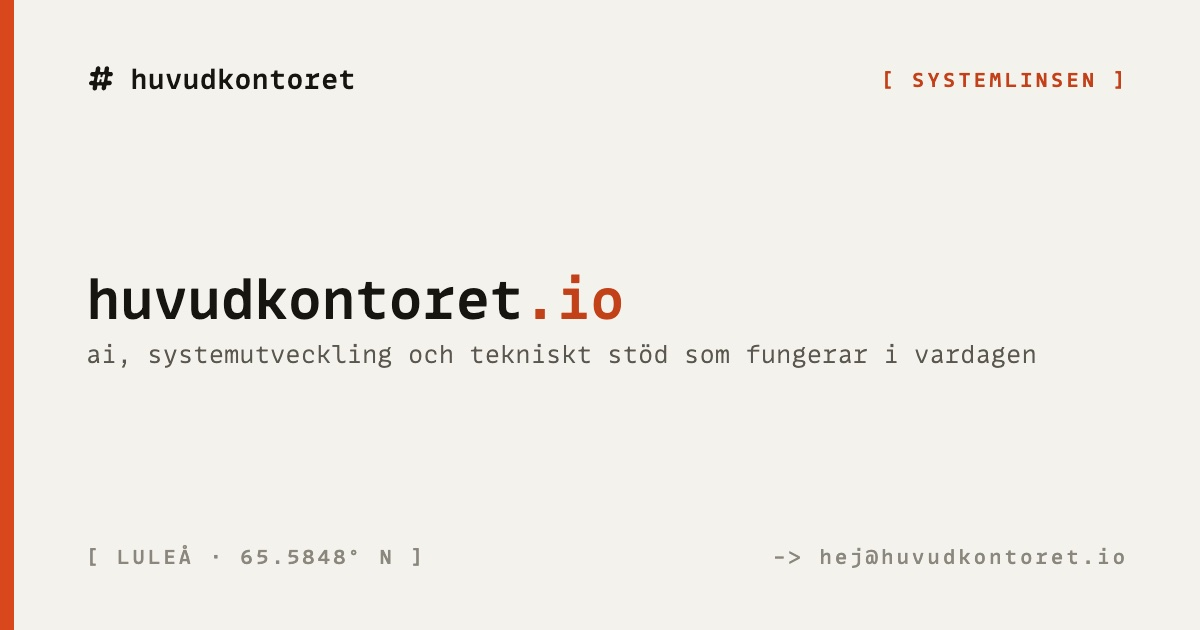
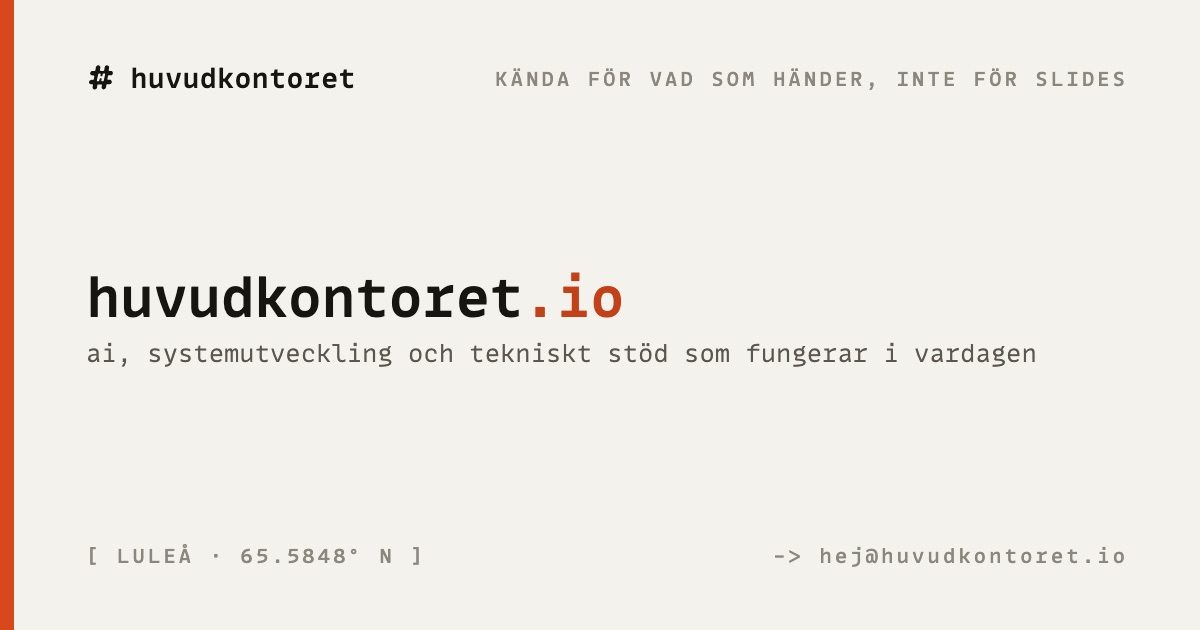
fix(io): take the lens name off the OG image, and the name in lower case in the title
The share image said "[ SYSTEMLINSEN ]" top right and the alt text said
"systemlinsen". With Systemet hidden in v1 the page never explains the
word, so on LinkedIn or in Slack it was jargon with no home — the same
problem the review found with "nod" (#28). The slot now carries the hero
meta's own right-hand line, "KÄNDA FÖR VAD SOM HÄNDER, INTE FÖR SLIDES",
in Grafit like the hero sets it; the lens colour stays on the address
where it belongs. `assets/og-io.jpg` is re-rendered from the template with
the recipe in its header. The alt text describes what the image says.

The tab title was "Huvudkontoret - AI, …". The name rule puts the company
name in lower case on every surface, and /profil already titles itself
"Profil · huvudkontoret", so the homepage is "huvudkontoret · AI,
systemutveckling och tekniskt stöd som fungerar i vardagen". og:title and
the Organization name in the JSON-LD follow, since search engines and
share cards show both as the name.

Left alone: "# Huvudkontoret" as the heading of index.md, llms.txt and
llms-full.txt, and the legal entity where it is meant to be capitalised.

Claude-Session: https://claude.ai/code/session_01Hob53QN7FiicNpoCMWLP9B

diff --git a/index.html b/index.html
@@ -4,7 +4,7 @@
         <meta charset="UTF-8" />
         <meta name="viewport" content="width=device-width, initial-scale=1.0" />
         <title>
-            Huvudkontoret - AI, systemutveckling och tekniskt stöd som fungerar
+            huvudkontoret · AI, systemutveckling och tekniskt stöd som fungerar
             i vardagen
         </title>
         <meta
@@ -12,12 +12,12 @@
             content="Huvudkontoret är ett techbolag i Luleå med fokus på AI, systemutveckling och teknisk rådgivning. Lokalt förankrat, globalt relevant, kända för vad som händer."
         />
         <meta name="theme-color" content="#F4F2EC" />
-        <meta property="og:title" content="Huvudkontoret" />
+        <meta property="og:title" content="huvudkontoret" />
         <meta property="og:description" content="Nästa steg. På riktigt. AI, systemutveckling och tekniskt stöd som fungerar i vardagen, inte bara ser bra ut på papper." />
         <meta property="og:image" content="https://huvudkontoret.io/assets/og-io.jpg" />
         <meta property="og:image:width" content="1200" />
         <meta property="og:image:height" content="630" />
-        <meta property="og:image:alt" content="huvudkontoret.io: systemlinsen" />
+        <meta property="og:image:alt" content="huvudkontoret.io: AI, systemutveckling och tekniskt stöd som fungerar i vardagen" />
         <meta property="og:url" content="https://huvudkontoret.io" />
         <meta property="og:type" content="website" />
         <meta property="og:locale" content="sv_SE" />
@@ -36,7 +36,7 @@
                 "@context": "https://schema.org",
                 "@type": "Organization",
                 "@id": "https://huvudkontoret.io/#organization",
-                "name": "Huvudkontoret",
+                "name": "huvudkontoret",
                 "url": "https://huvudkontoret.io/",
                 "email": "hej@huvudkontoret.io",
                 "description": "Huvudkontoret är ett techbolag i Luleå med fokus på AI, systemutveckling och teknisk rådgivning.",

diff --git a/tools/og-io.html b/tools/og-io.html
@@ -5,8 +5,10 @@
         <title>OG-mall · huvudkontoret.io</title>
         <!--
           OG-regeln: bilden genereras, den designas aldrig. Mallen tar adress,
-          lins och statusrad; Papper som grund, all text i MonoLisa, aldrig
-          foto, och -> renderas som två tecken.
+          hero-metans rad och statusrad; Papper som grund, all text i MonoLisa,
+          aldrig foto, och -> renderas som två tecken. Linsnamnet stod här
+          uppe till höger tills Systemet doldes i v1: ett ord sidan inte
+          förklarar hör inte hemma i delningsbilden.
 
           Rendera om:
             python3 -m http.server 8788 --directory .
@@ -82,12 +84,12 @@
                 font-size: 2.6cqw;
                 font-weight: 600;
             }
-            .lens {
+            .meta {
                 font-size: 1.9cqw;
-                font-weight: 600;
+                font-weight: 500;
                 letter-spacing: 0.14em;
                 white-space: nowrap;
-                color: #c34119;
+                color: #8a877d;
             }
             .mid {
                 display: flex;
@@ -126,7 +128,9 @@
                     <div class="sigill"></div>
                     <span>huvudkontoret</span>
                 </div>
-                <span class="lens">[ SYSTEMLINSEN ]</span>
+                <span class="meta"
+                    >KÄNDA FÖR VAD SOM HÄNDER, INTE FÖR SLIDES</span
+                >
             </div>
             <div class="mid">
                 <span class="addr">huvudkontoret<i>.io</i></span>
